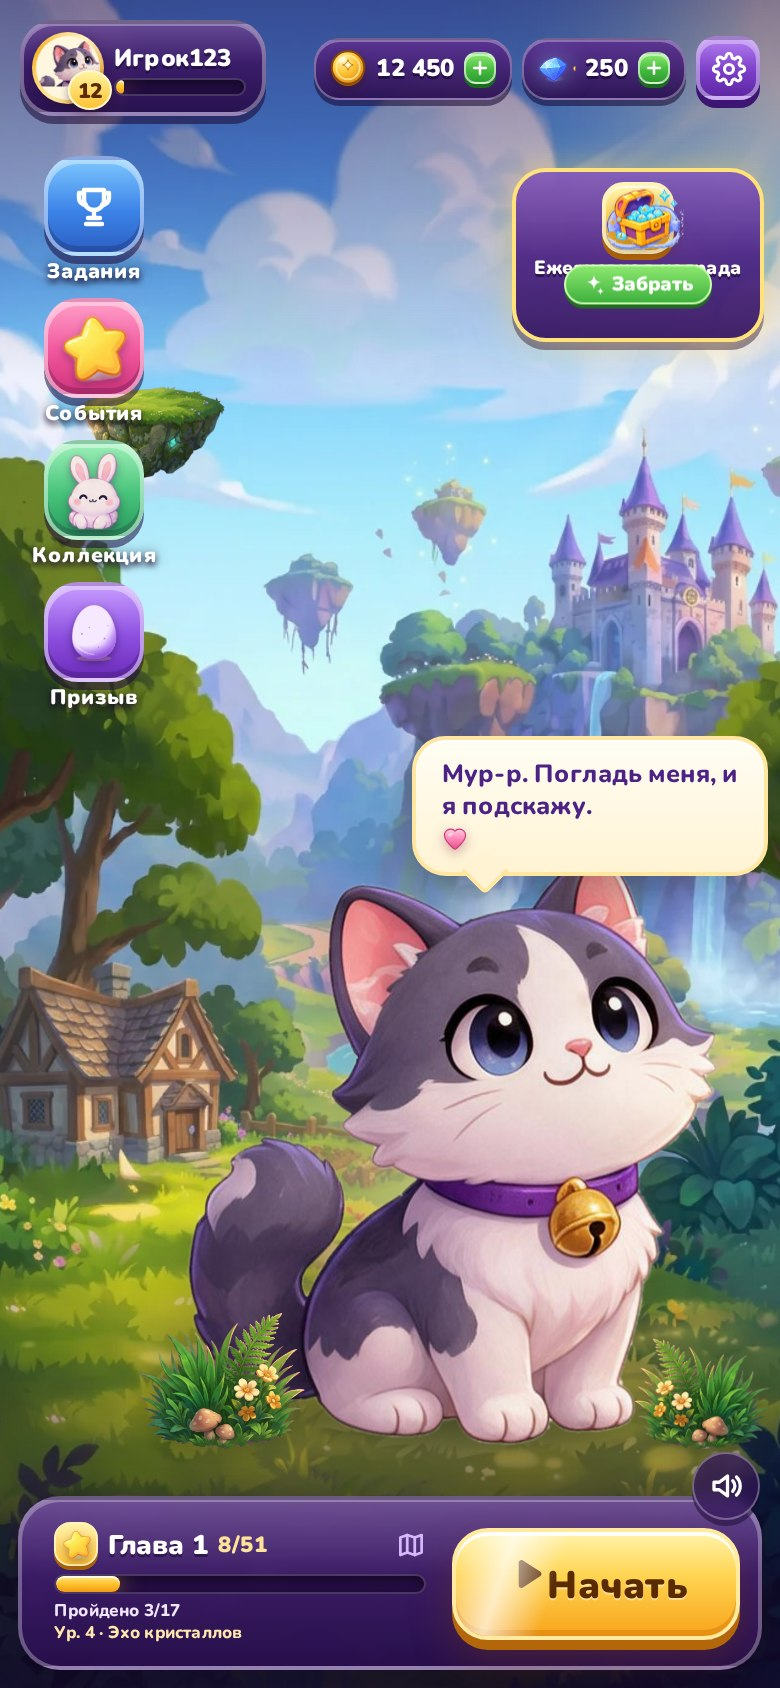
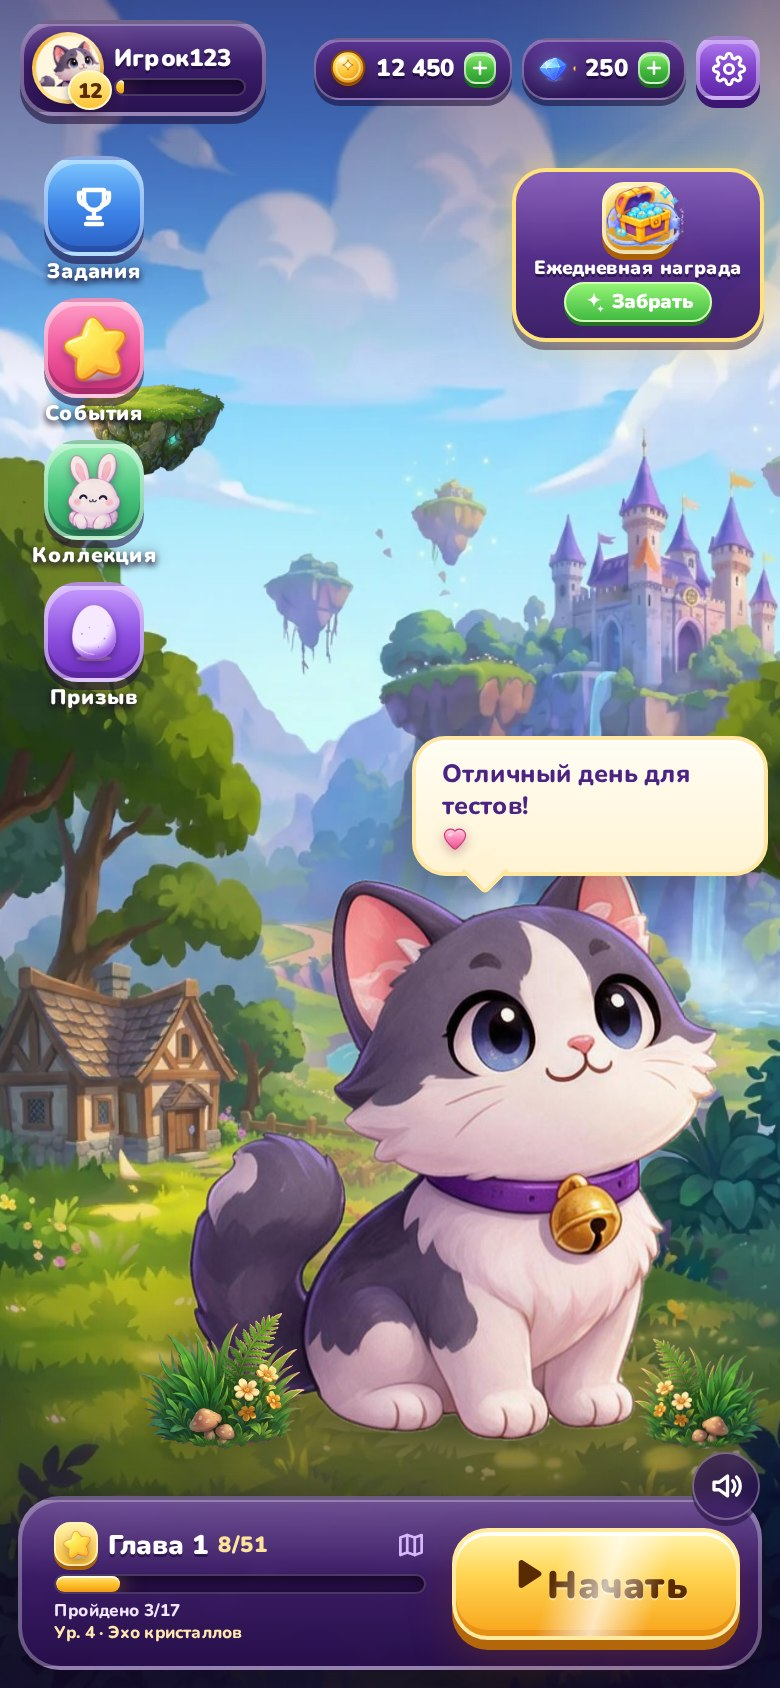
Keep daily reward label clear during animation

diff --git a/app/src/styles/home.css b/app/src/styles/home.css
@@ -296,7 +296,12 @@
   padding: 2px 8px;
   border: 1px solid #cbffb0;
   box-shadow: 0 2px 0 #226d21;
-  animation: floatY 1.8s ease-in-out infinite;
+  animation: daily-ready-shimmer 1.8s ease-in-out infinite;
+}
+
+@keyframes daily-ready-shimmer {
+  0%, 100% { filter: brightness(1); }
+  50% { filter: brightness(1.14); }
 }
 
 .daily-card.is-ready {
